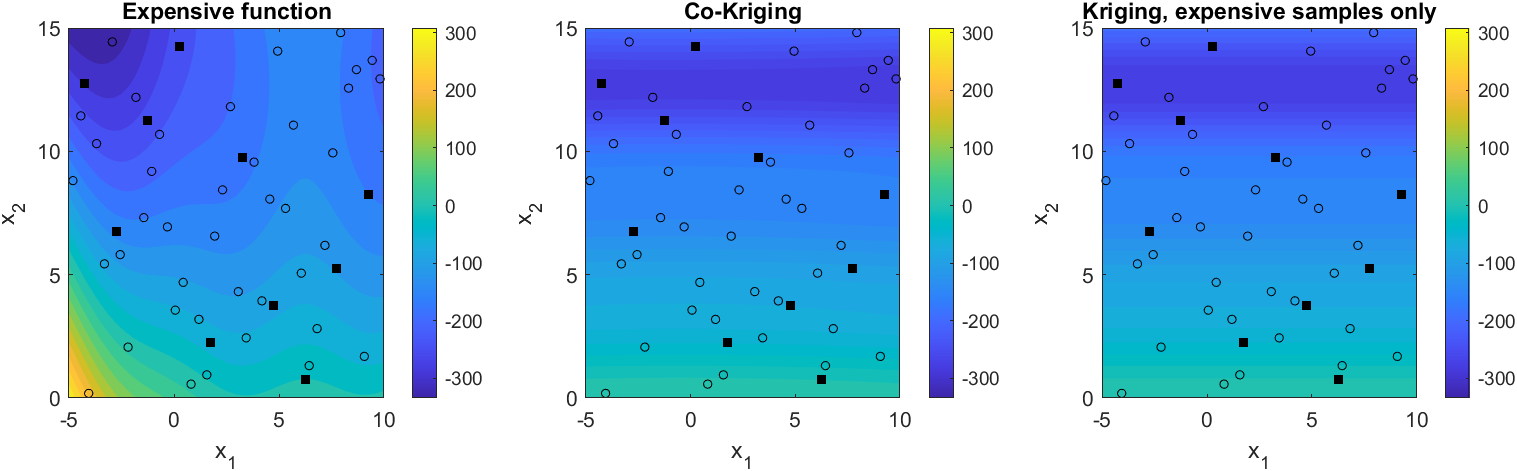
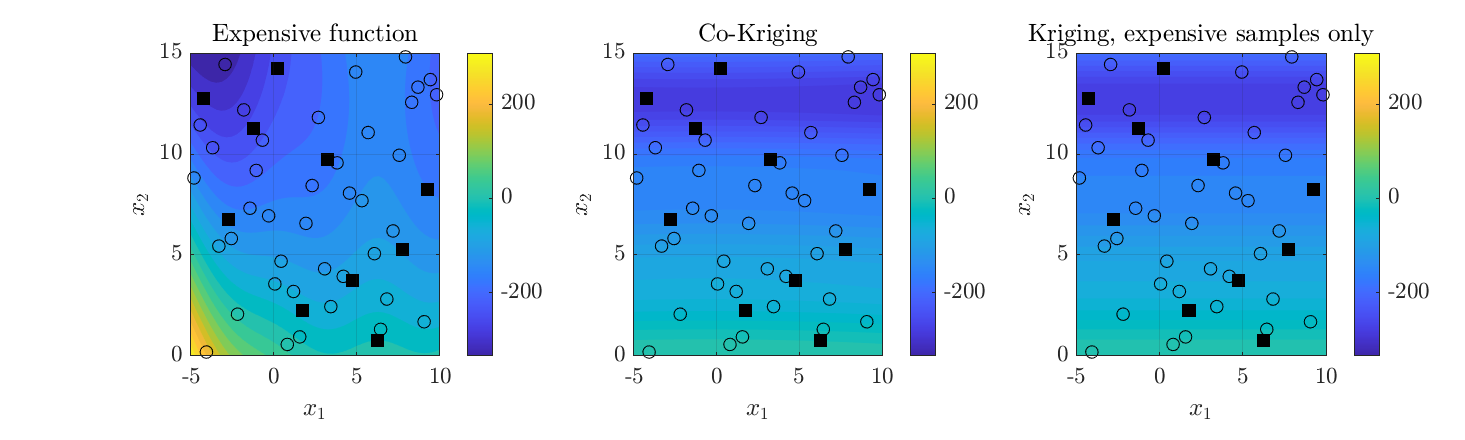
Restyle the README figures

diff --git a/tools/applyFigureStyle.m b/tools/applyFigureStyle.m
@@ -1,0 +1,64 @@
+function applyFigureStyle(fig, widthFraction)
+% applyFigureStyle  Style a README figure in place.
+%
+%   applyFigureStyle(fig, widthFraction) sizes fig at widthFraction of a
+%   16.54 cm reference width, drawn at 1.5 times the size it is shown at
+%   and keeping its aspect ratio, and applies the house style: LaTeX text,
+%   9 pt tick labels (0.8 of that when the figure has more than one axes),
+%   labels and titles 10% larger, legends at 0.8 below the axes, 1.5 pt
+%   lines, grid, box and a white background. Lines drawn in a colour of
+%   MATLAB's default colour order take the colour at the same position in
+%   the palette below; any other colour, black included, is kept. Apply it
+%   once per figure: marker sizes are scaled at every call.
+arguments
+    fig (1,1) matlab.ui.Figure
+    widthFraction (1,1) double {mustBePositive, mustBeLessThanOrEqual(widthFraction, 1)}
+end
+scale = 1.5;
+referenceWidth = 16.54;   % cm
+palette = ["#4658A9", "#D3212D", "#00A86B", "#FDAF00", "#E94196", "#FF5A36", "#6CC407"];
+defaultColors = get(groot, "FactoryAxesColorOrder");
+
+fig.Units = "centimeters";
+aspect = fig.Position(3) / fig.Position(4);
+width = scale * referenceWidth * widthFraction;
+fig.Position(3:4) = [width, width / aspect];
+fig.Color = "w";
+
+axesList = findobj(fig, "Type", "axes");
+fontSize = scale * 9;
+if numel(axesList) > 1
+    fontSize = 0.8 * fontSize;
+end
+for ax = reshape(axesList, 1, [])
+    set(ax, "FontSize", fontSize, "LabelFontSizeMultiplier", 1.1, ...
+        "TitleFontSizeMultiplier", 1.1, "TickLabelInterpreter", "latex", ...
+        "Color", "w", "LineWidth", 0.5, "Box", "on");
+    grid(ax, "on");
+    set([ax.XLabel, ax.YLabel, ax.Title], "Interpreter", "latex");
+    for h = reshape(findobj(ax, "Type", "line"), 1, [])
+        [isDefault, k] = ismember(round(h.Color, 4), round(defaultColors, 4), "rows");
+        if isDefault
+            h.Color = palette(k);
+        end
+        if h.LineStyle ~= "none"
+            h.LineWidth = scale * 1.5;
+        end
+        h.MarkerSize = scale * h.MarkerSize;
+    end
+end
+for cb = reshape(findobj(fig, "Type", "colorbar"), 1, [])
+    set(cb, "FontSize", fontSize, "TickLabelInterpreter", "latex");
+end
+for lg = reshape(findobj(fig, "Type", "legend"), 1, [])
+    set(lg, "Interpreter", "latex", "FontSize", 0.8 * scale * 9, "Box", "on", ...
+        "Location", "southoutside", "Orientation", "horizontal", ...
+        "NumColumns", min(3, numel(lg.String)), "Units", "normalized");
+    % fewer columns until the legend fits the width of the figure
+    drawnow;
+    while lg.Position(3) > 1 && lg.NumColumns > 1
+        lg.NumColumns = lg.NumColumns - 1;
+        drawnow;
+    end
+end
+end

diff --git a/tools/makeReadmeAssets.m b/tools/makeReadmeAssets.m
@@ -1,6 +1,7 @@
 function makeReadmeAssets()
-% makeReadmeAssets  Run the examples, save their figures under docs/figures
-% and print the results table of README.md.
+% makeReadmeAssets  Run the examples, style their figures with
+% applyFigureStyle, save them under docs/figures and print the results table
+% of README.md.
 root = fileparts(fileparts(mfilename("fullpath")));
 oldPath = addpath(fullfile(root, "src"), fullfile(root, "examples"));
 restorePath = onCleanup(@() path(oldPath));
@@ -15,11 +16,11 @@ airfoil = airfoilNoise();
 forrester = forresterCoKriging();
 braninPair = braninCoKriging();
 
-saveAndClose(branin.figure, fullfile(figureDir, "branin-kriging.png"));
-saveAndClose(hartmann.figure, fullfile(figureDir, "hartmann6-convergence.png"));
-saveAndClose(airfoil.figure, fullfile(figureDir, "airfoil-parity.png"));
-saveAndClose(forrester.figure, fullfile(figureDir, "forrester-cokriging.png"));
-saveAndClose(braninPair.figure, fullfile(figureDir, "branin-cokriging.png"));
+saveAndClose(branin.figure, fullfile(figureDir, "branin-kriging.png"), 1.0);
+saveAndClose(hartmann.figure, fullfile(figureDir, "hartmann6-convergence.png"), 0.6);
+saveAndClose(airfoil.figure, fullfile(figureDir, "airfoil-parity.png"), 0.6);
+saveAndClose(forrester.figure, fullfile(figureDir, "forrester-cokriging.png"), 0.6);
+saveAndClose(braninPair.figure, fullfile(figureDir, "branin-cokriging.png"), 1.0);
 
 fprintf("\n| Example | Data | Result |\n|---|---|---|\n");
 fprintf("| `braninKriging` | %d samples of the Branin function | RMSE %.3f on a 50 x 50 grid, R<sup>2</sup> %.4f |\n", ...
@@ -35,7 +36,13 @@ fprintf("| `braninCoKriging` | %d cheap and %d expensive samples | RMSE %.3f wit
     braninPair.rmseKriging, braninPair.correlation);
 end
 
-function saveAndClose(fig, file)
-exportgraphics(fig, file, Resolution=150, BackgroundColor="white");
+function saveAndClose(fig, file, widthFraction)
+% widthFraction must match the width of the image in README.md. The image is
+% printed at the size of the figure, without cropping, so that images shown
+% at the same fraction of the page also show text of the same size.
+applyFigureStyle(fig, widthFraction);
+set(fig, "PaperUnits", "centimeters", "PaperSize", fig.Position(3:4), ...
+    "PaperPosition", [0 0 fig.Position(3:4)]);
+print(fig, file, "-dpng", "-r150");
 close(fig);
 end

diff --git a/examples/forresterCoKriging.m b/examples/forresterCoKriging.m
@@ -35,11 +35,11 @@ plot(ax, xq, yKr, "--", LineWidth=1.5);
 plot(ax, xLow, yLow, "ko");
 plot(ax, xHigh, yHigh, "ks", MarkerFaceColor="k");
 grid(ax, "on");
-xlabel(ax, "x");
-ylabel(ax, "y");
+xlabel(ax, "$x$", Interpreter="latex");
+ylabel(ax, "$y$", Interpreter="latex");
 legend(ax, ["Expensive function", "Cheap function", "Co-Kriging", ...
     "Kriging, expensive samples only", "Cheap samples", "Expensive samples"], ...
-    Location="northwest");
+    Location="northwest", Interpreter="latex");
 
 results = struct("nLow", numel(xLow), "nHigh", numel(xHigh), "rmseCoKriging", co.RMSE, ...
     "rmseKriging", kr.RMSE, "rho", coKriging.Rho, "figure", fig);

diff --git a/examples/airfoilNoise.m b/examples/airfoilNoise.m
@@ -37,9 +37,9 @@ grid(ax, "on");
 axis(ax, "equal");
 xlim(ax, limits);
 ylim(ax, limits);
-xlabel(ax, "Measured sound pressure level [dB]");
-ylabel(ax, "Predicted [dB]");
-title(ax, sprintf("Test set, RMSE %.2f dB", metrics.RMSE));
+xlabel(ax, "Measured sound pressure level [dB]", Interpreter="latex");
+ylabel(ax, "Predicted [dB]", Interpreter="latex");
+title(ax, sprintf("Test set, RMSE %.2f dB", metrics.RMSE), Interpreter="latex");
 
 results = struct("nTrain", nTrain, "rmse", metrics.RMSE, "r2", metrics.R2, ...
     "noiseStd", noiseStd, "figure", fig);

diff --git a/examples/braninKriging.m b/examples/braninKriging.m
@@ -30,9 +30,9 @@ for k = 1:3
     contourf(ax, g1, g2, reshape(panels{k}, size(g1)), 20, LineColor="none");
     hold(ax, "on");
     plot(ax, x(:, 1), x(:, 2), "k.", MarkerSize=12);
-    title(ax, titles(k));
-    xlabel(ax, "x_1");
-    ylabel(ax, "x_2");
+    title(ax, titles(k), Interpreter="latex");
+    xlabel(ax, "$x_1$", Interpreter="latex");
+    ylabel(ax, "$x_2$", Interpreter="latex");
     colorbar(ax);
     if k < 3
         % Function and prediction share one colour scale.

diff --git a/examples/braninCoKriging.m b/examples/braninCoKriging.m
@@ -43,9 +43,9 @@ for k = 1:3
     hold(ax, "on");
     plot(ax, xLow(:, 1), xLow(:, 2), "ko", MarkerSize=4);
     plot(ax, xHigh(:, 1), xHigh(:, 2), "ks", MarkerFaceColor="k", MarkerSize=5);
-    title(ax, titles(k));
-    xlabel(ax, "x_1");
-    ylabel(ax, "x_2");
+    title(ax, titles(k), Interpreter="latex");
+    xlabel(ax, "$x_1$", Interpreter="latex");
+    ylabel(ax, "$x_2$", Interpreter="latex");
     colorbar(ax);
     clim(ax, [min(yGrid), max(yGrid)]);
 end

diff --git a/examples/hartmann6Convergence.m b/examples/hartmann6Convergence.m
@@ -23,9 +23,9 @@ ax = axes(fig);
 loglog(ax, sizes, rmse, "o-", LineWidth=1.5);
 xticks(ax, sizes);
 grid(ax, "on");
-xlabel(ax, "Training samples");
-ylabel(ax, "Test RMSE");
-title(ax, "Kriging on the 6-D Hartmann function");
+xlabel(ax, "Training samples", Interpreter="latex");
+ylabel(ax, "Test RMSE", Interpreter="latex");
+title(ax, "Kriging on the 6-D Hartmann function", Interpreter="latex");
 
 results = struct("sizes", sizes, "rmse", rmse, "figure", fig);
 end

diff --git a/README.md b/README.md
@@ -89,11 +89,15 @@ zero and co-Kriging does no better than Kriging on the expensive samples. The au
 off when the cheap function matches the expensive one up to a scale and a smooth correction, as in the
 Forrester case.
 
-![Kriging on the Branin function](docs/figures/branin-kriging.png)
-![Co-Kriging on the Forrester function](docs/figures/forrester-cokriging.png)
-![Co-Kriging on the two-fidelity Branin pair](docs/figures/branin-cokriging.png)
-![Convergence on the 6-D Hartmann function](docs/figures/hartmann6-convergence.png)
-![Parity plot on the airfoil self-noise data](docs/figures/airfoil-parity.png)
+<img src="docs/figures/branin-kriging.png" alt="Kriging on the Branin function" width="100%">
+
+<img src="docs/figures/forrester-cokriging.png" alt="Co-Kriging on the Forrester function" width="60%">
+
+<img src="docs/figures/branin-cokriging.png" alt="Co-Kriging on the two-fidelity Branin pair" width="100%">
+
+<img src="docs/figures/hartmann6-convergence.png" alt="Convergence on the 6-D Hartmann function" width="60%">
+
+<img src="docs/figures/airfoil-parity.png" alt="Parity plot on the airfoil self-noise data" width="60%">
 
 `tools/makeReadmeAssets` reruns the examples and regenerates these figures and the table.
 
